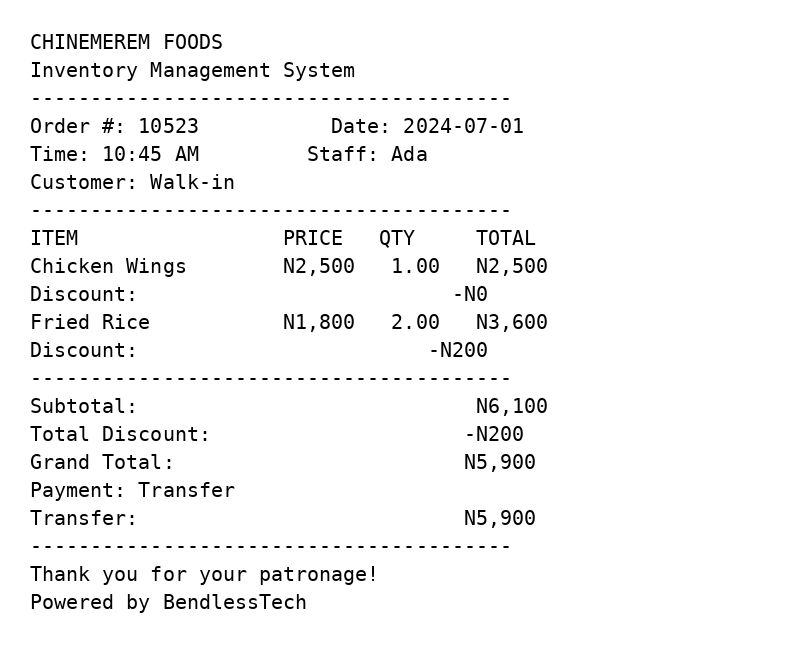
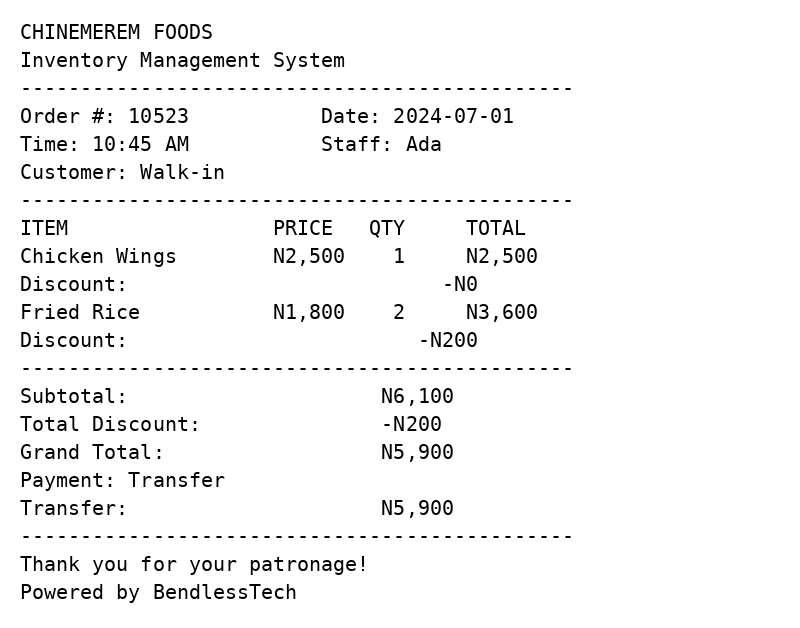
Update receipt formatting for 80mm output

diff --git a/templates/pages/order-history.php b/templates/pages/order-history.php
@@ -105,14 +105,14 @@ foreach ($orders as $order) {
         /* Receipt Modal */
         .receipt-modal { display: none; position: fixed; top: 0; left: 0; right: 0; bottom: 0; background: rgba(0,0,0,0.7); z-index: 1000; align-items: center; justify-content: center; padding: 1rem; }
         .receipt-modal.active { display: flex; }
-        .receipt-content { background: white; max-width: 80mm; width: 100%; max-height: 90vh; overflow-y: auto; border-radius: 12px; }
+        .receipt-content { background: white; width: 80mm; max-width: 80mm; max-height: 90vh; overflow-y: auto; border-radius: 12px; }
         .receipt-header { background: #001943; color: white; padding: 1rem; display: flex; justify-content: space-between; align-items: center; border-radius: 12px 12px 0 0; }
         .receipt-header h3 { margin: 0; font-size: 1rem; }
-        .receipt-body { padding: 1rem; font-family: 'Courier New', monospace; font-size: 0.8rem; width: 100%; box-sizing: border-box; }
+        .receipt-body { padding: 2mm; font-family: 'Courier New', monospace; font-size: 0.8rem; width: 100%; box-sizing: border-box; }
         .receipt-company { text-align: center; margin-bottom: 0.5rem; }
-        .receipt-company h2 { margin: 0; font-size: 1rem; font-weight: 800; letter-spacing: 0.5px; }
+        .receipt-company h2 { margin: 0; font-size: 1rem; font-weight: 800; letter-spacing: 0.5px; text-transform: uppercase; }
         .receipt-company p { margin: 0; font-size: 0.75rem; color: #666; }
-        .receipt-divider { border-top: 1px dashed #333; margin: 0.5rem 0; }
+        .receipt-divider { border-top: 1px solid #333; margin: 0.5rem 0; }
         .receipt-info p { margin: 0.2rem 0; display: flex; justify-content: space-between; }
         .receipt-items { margin: 0.5rem 0; }
         .receipt-row { display: grid; grid-template-columns: 1.6fr 0.8fr 0.5fr 0.9fr; gap: 6px; align-items: baseline; }
@@ -122,7 +122,7 @@ foreach ($orders as $order) {
         .receipt-item:last-child { border-bottom: none; }
         .receipt-item-discount { display: flex; justify-content: space-between; font-size: 0.7rem; margin-top: 0.2rem; }
         .receipt-item-discount .receipt-amount { color: #dc2626; }
-        .receipt-amount { font-weight: 700; }
+        .receipt-amount { font-weight: 800; }
         .receipt-totals p { margin: 0.2rem 0; display: flex; justify-content: space-between; }
         .receipt-totals .grand { font-weight: 700; font-size: 1rem; }
         .receipt-footer { text-align: center; margin-top: 0.5rem; font-size: 0.75rem; color: #666; }
@@ -137,7 +137,7 @@ foreach ($orders as $order) {
         @media print {
             body * { visibility: hidden; }
             #print-area, #print-area * { visibility: visible; }
-            #print-area { position: absolute; left: 0; top: 0; width: 80mm; margin: 0; padding: 2mm; }
+            #print-area { position: absolute; left: 0; top: 0; width: 80mm; max-width: 80mm; margin: 0; padding: 2mm; box-sizing: border-box; }
         }
     </style>
 </head>
@@ -527,11 +527,12 @@ async function printReceipt() {
     printWindow.document.write('<style>');
     printWindow.document.write('@page{size:80mm auto;margin:0}');
     printWindow.document.write('*{margin:0;padding:0;box-sizing:border-box}');
-    printWindow.document.write('body{font-family:"Courier New",Courier,monospace;font-size:12px;width:80mm;max-width:80mm;margin:0 auto;padding:3mm;line-height:1.4;color:#000}');
+    printWindow.document.write('body{font-family:"Courier New",Courier,monospace;font-size:12px;width:80mm;max-width:80mm;margin:0;padding:0;line-height:1.4;color:#000}');
+    printWindow.document.write('#print-content{width:80mm;padding:2mm;box-sizing:border-box}');
     printWindow.document.write('.receipt-company{text-align:center;margin-bottom:6px}');
-    printWindow.document.write('.receipt-company h2{font-size:16px;font-weight:800;margin:0 0 4px;letter-spacing:0.5px}');
+    printWindow.document.write('.receipt-company h2{font-size:16px;font-weight:800;margin:0 0 4px;letter-spacing:0.5px;text-transform:uppercase}');
     printWindow.document.write('.receipt-company p{font-size:11px;margin:0}');
-    printWindow.document.write('.receipt-divider{border-top:1px dashed #000;margin:6px 0}');
+    printWindow.document.write('.receipt-divider{border-top:1px solid #000;margin:6px 0}');
     printWindow.document.write('.receipt-info p{display:flex;justify-content:space-between;margin:4px 0;font-size:12px}');
     printWindow.document.write('.receipt-row{display:grid;grid-template-columns:1.6fr 0.8fr 0.5fr 0.9fr;gap:6px;align-items:baseline;font-size:11px}');
     printWindow.document.write('.receipt-row .item-price,.receipt-row .item-qty,.receipt-row .item-total{text-align:right}');
@@ -539,11 +540,11 @@ async function printReceipt() {
     printWindow.document.write('.receipt-item{padding:4px 0;border-bottom:1px dashed #999}');
     printWindow.document.write('.receipt-item:last-child{border-bottom:none}');
     printWindow.document.write('.receipt-item-discount{display:flex;justify-content:space-between;font-size:10px;margin-top:2px}');
-    printWindow.document.write('.receipt-amount{font-weight:700}');
+    printWindow.document.write('.receipt-amount{font-weight:800}');
     printWindow.document.write('.receipt-totals p{display:flex;justify-content:space-between;margin:4px 0;font-size:12px}');
     printWindow.document.write('.receipt-totals .grand{font-size:13px;font-weight:700}');
     printWindow.document.write('.receipt-footer{text-align:center;margin-top:6px;font-size:10px}');
-    printWindow.document.write('@media print{body{padding:0}}');
+    printWindow.document.write('@media print{body{margin:0;padding:0}}');
     printWindow.document.write('</style></head><body>');
     printWindow.document.write(printContent.innerHTML);
     printWindow.document.write('</body></html>');

diff --git a/templates/pages/debtors-history.php b/templates/pages/debtors-history.php
@@ -477,11 +477,12 @@ var h='<!DOCTYPE html><html><head><title>Print Receipt</title>';
 h+='<style>';
 h+='@page{size:80mm auto;margin:0}';
 h+='*{margin:0;padding:0;box-sizing:border-box}';
-    h+='body{font-family:"Courier New",Courier,monospace;font-size:12px;width:80mm;max-width:80mm;margin:0 auto;padding:3mm;line-height:1.4;color:#000}';
+    h+='body{font-family:"Courier New",Courier,monospace;font-size:12px;width:80mm;max-width:80mm;margin:0;padding:0;line-height:1.4;color:#000}';
+    h+='.receipt{width:80mm;padding:2mm;box-sizing:border-box}';
     h+='.header{text-align:center;margin-bottom:6px}';
-    h+='.header h2{font-size:16px;font-weight:800;margin:0 0 4px;letter-spacing:0.5px}';
+    h+='.header h2{font-size:16px;font-weight:800;margin:0 0 4px;letter-spacing:0.5px;text-transform:uppercase}';
     h+='.header p{font-size:11px;margin:0}';
-    h+='.divider{border-top:1px dashed #000;margin:6px 0}';
+    h+='.divider{border-top:1px solid #000;margin:6px 0}';
     h+='.info p{display:flex;justify-content:space-between;margin:4px 0;font-size:12px}';
     h+='.item-row{display:grid;grid-template-columns:1.6fr 0.8fr 0.5fr 0.9fr;gap:6px;align-items:baseline;font-size:11px}';
     h+='.item-row .item-price,.item-row .item-qty,.item-row .item-total{text-align:right}';
@@ -489,13 +490,13 @@ h+='*{margin:0;padding:0;box-sizing:border-box}';
     h+='.item{padding:4px 0;border-bottom:1px dashed #999}';
     h+='.item:last-child{border-bottom:none}';
     h+='.item-discount{display:flex;justify-content:space-between;font-size:10px;margin-top:2px}';
-    h+='.receipt-amount{font-weight:700}';
+    h+='.receipt-amount{font-weight:800}';
     h+='.total p{display:flex;justify-content:space-between;margin:4px 0;font-size:12px}';
     h+='.footer{text-align:center;margin-top:6px;font-size:10px}';
 h+='.no-print{margin:15px 0;text-align:center}';
 h+='.print-btn{background:#7c3aed;color:#fff;border:none;padding:12px 30px;font-size:14px;border-radius:5px;cursor:pointer}';
 h+='@media print{.no-print{display:none !important}}';
-h+='</style></head><body>';
+    h+='</style></head><body><div class="receipt">';
     h+='<div class="header"><h2>CHINEMEREM FOODS</h2><p>Credit Order Receipt (Reprint)</p></div>';
     h+='<div class="divider"></div>';
     h+='<div class="info">';
@@ -521,7 +522,7 @@ h+='</style></head><body>';
     h+='</div>';
     h+='<div class="divider"></div>';
     h+='<div class="footer"><p>This is a credit order - Payment pending</p><p style="margin-top:5px">Powered by BendlessTech</p></div>';
-h+='</body></html>';
+ h+='</div></body></html>';
 w.document.write(h);w.document.close();
 w.onload=function(){setTimeout(function(){w.print()},300)};
 }
@@ -543,21 +544,22 @@ var h='<!DOCTYPE html><html><head><title>Print Receipt</title>';
 h+='<style>';
 h+='@page{size:80mm auto;margin:0}';
 h+='*{margin:0;padding:0;box-sizing:border-box}';
-    h+='body{font-family:"Courier New",Courier,monospace;font-size:12px;width:80mm;max-width:80mm;margin:0 auto;padding:3mm;line-height:1.4;color:#000}';
+    h+='body{font-family:"Courier New",Courier,monospace;font-size:12px;width:80mm;max-width:80mm;margin:0;padding:0;line-height:1.4;color:#000}';
+    h+='.receipt{width:80mm;padding:2mm;box-sizing:border-box}';
     h+='.header{text-align:center;margin-bottom:6px}';
-    h+='.header h2{font-size:16px;font-weight:800;margin:0 0 4px;letter-spacing:0.5px}';
+    h+='.header h2{font-size:16px;font-weight:800;margin:0 0 4px;letter-spacing:0.5px;text-transform:uppercase}';
     h+='.header p{font-size:11px;margin:0}';
-    h+='.divider{border-top:1px dashed #000;margin:6px 0}';
+    h+='.divider{border-top:1px solid #000;margin:6px 0}';
     h+='.info p{display:flex;justify-content:space-between;margin:4px 0;font-size:12px}';
     h+='.payment p{display:flex;justify-content:space-between;margin:4px 0;font-size:12px}';
     h+='.payment .big{font-size:13px;font-weight:700;color:#008800}';
-    h+='.receipt-amount{font-weight:700}';
+    h+='.receipt-amount{font-weight:800}';
     h+='.total p{display:flex;justify-content:space-between;margin:4px 0;font-size:12px}';
     h+='.footer{text-align:center;margin-top:6px;font-size:10px}';
 h+='.no-print{margin:15px 0;text-align:center}';
 h+='.print-btn{background:#16a34a;color:#fff;border:none;padding:12px 30px;font-size:14px;border-radius:5px;cursor:pointer}';
 h+='@media print{.no-print{display:none !important}}';
-h+='</style></head><body>';
+ h+='</style></head><body><div class="receipt">';
     h+='<div class="header"><h2>CHINEMEREM FOODS</h2><p>Debt Payment Receipt (Reprint)</p></div>';
     h+='<div class="divider"></div>';
     h+='<div class="info">';
@@ -580,8 +582,8 @@ h+='</style></head><body>';
      h+='<p style="color:'+balColor+'"><span>NEW BALANCE:</span><span class="receipt-amount">N'+formatReceiptNumber(p.balance_after)+'</span></p>';
     h+='</div>';
     h+='<div class="divider"></div>';
-    h+='<div class="footer"><p>Payment received with thanks!</p><p style="margin-top:5px">Powered by BendlessTech</p></div>';
-h+='</body></html>';
+     h+='<div class="footer"><p>Payment received with thanks!</p><p style="margin-top:5px">Powered by BendlessTech</p></div>';
+ h+='</div></body></html>';
 w.document.write(h);w.document.close();
 w.onload=function(){setTimeout(function(){w.print()},300)};
 }

diff --git a/templates/pages/take-order.php b/templates/pages/take-order.php
@@ -362,8 +362,8 @@ $products = CFI_Products::get_all();
         }
         .receipt-content {
             background: white;
+            width: 80mm;
             max-width: 80mm;
-            width: 100%;
             max-height: 90vh;
             overflow-y: auto;
             border-radius: 12px;
@@ -377,11 +377,11 @@ $products = CFI_Products::get_all();
             justify-content: space-between;
             align-items: center;
         }
-        .receipt-body { padding: 1rem; font-family: 'Courier New', monospace; font-size: 0.8rem; width: 100%; box-sizing: border-box; }
+        .receipt-body { padding: 2mm; font-family: 'Courier New', monospace; font-size: 0.8rem; width: 100%; box-sizing: border-box; }
         .receipt-company { text-align: center; margin-bottom: 0.5rem; }
-        .receipt-company h2 { color: #001943; margin: 0 0 0.25rem 0; font-weight: 800; letter-spacing: 0.5px; }
+        .receipt-company h2 { color: #001943; margin: 0 0 0.25rem 0; font-weight: 800; letter-spacing: 0.5px; text-transform: uppercase; }
         .receipt-company p { color: #64748b; font-size: 0.8rem; margin: 0; }
-        .receipt-divider { border-top: 1px dashed #001943; margin: 0.5rem 0; }
+        .receipt-divider { border-top: 1px solid #001943; margin: 0.5rem 0; }
         .receipt-info { margin-bottom: 0.5rem; font-size: 0.85rem; }
         .receipt-info p { margin: 0.25rem 0; display: flex; justify-content: space-between; }
         .receipt-items { margin: 0.5rem 0; }
@@ -392,7 +392,7 @@ $products = CFI_Products::get_all();
         .receipt-item:last-child { border-bottom: none; }
         .receipt-item-discount { display: flex; justify-content: space-between; font-size: 0.7rem; margin-top: 0.2rem; }
         .receipt-item-discount .receipt-amount { color: #dc2626; }
-        .receipt-amount { font-weight: 700; }
+        .receipt-amount { font-weight: 800; }
         .receipt-totals { margin-top: 0.5rem; font-size: 0.85rem; }
         .receipt-totals p { display: flex; justify-content: space-between; margin: 0.25rem 0; }
         .receipt-totals .grand { font-size: 1rem; font-weight: 700; color: #001943; }
@@ -446,7 +446,7 @@ $products = CFI_Products::get_all();
         @media print {
             body * { visibility: hidden; }
             .receipt-body, .receipt-body * { visibility: visible; }
-            .receipt-body { position: absolute; left: 0; top: 0; width: 80mm; }
+            .receipt-body { position: absolute; left: 0; top: 0; width: 80mm; padding: 2mm; }
         }
         
         @media (max-width: 768px) {
@@ -1152,13 +1152,13 @@ async function printReceipt() {
     printWindow.document.write('<style>');
     printWindow.document.write('@page{size:80mm auto;margin:0}');
     printWindow.document.write('*{margin:0;padding:0;box-sizing:border-box}');
-    printWindow.document.write('html,body{width:100%!important;max-width:100%!important;margin:0!important;padding:0!important}');
+    printWindow.document.write('html,body{width:80mm!important;max-width:80mm!important;margin:0!important;padding:0!important}');
     printWindow.document.write('body{font-family:"Courier New",Courier,monospace;font-size:12px;line-height:1.4;color:#000;background:#fff}');
-    printWindow.document.write('.receipt{width:100%;padding:3mm}');
+    printWindow.document.write('.receipt{width:80mm;padding:2mm;box-sizing:border-box}');
     printWindow.document.write('.header{text-align:center;margin-bottom:6px}');
     printWindow.document.write('.header h2{font-size:16px;font-weight:800;margin:0 0 4px;letter-spacing:0.5px;text-transform:uppercase}');
     printWindow.document.write('.header p{font-size:11px;margin:0}');
-    printWindow.document.write('.divider{border-top:1px dashed #000;margin:6px 0}');
+    printWindow.document.write('.divider{border-top:1px solid #000;margin:6px 0}');
     printWindow.document.write('.info-row{display:flex;justify-content:space-between;margin:4px 0;font-size:12px}');
     printWindow.document.write('.info-row .value{font-weight:700}');
     printWindow.document.write('.items{margin:6px 0}');
@@ -1168,7 +1168,7 @@ async function printReceipt() {
     printWindow.document.write('.item{padding:4px 0;border-bottom:1px dashed #999}');
     printWindow.document.write('.item:last-child{border-bottom:none}');
     printWindow.document.write('.item-discount{display:flex;justify-content:space-between;font-size:10px;margin-top:2px}');
-    printWindow.document.write('.receipt-amount{font-weight:700}');
+    printWindow.document.write('.receipt-amount{font-weight:800}');
     printWindow.document.write('.totals p,.payments p{display:flex;justify-content:space-between;margin:4px 0;font-size:12px}');
     printWindow.document.write('.totals .grand{font-size:13px;font-weight:700}');
     printWindow.document.write('.footer{text-align:center;margin-top:6px;font-size:10px}');
